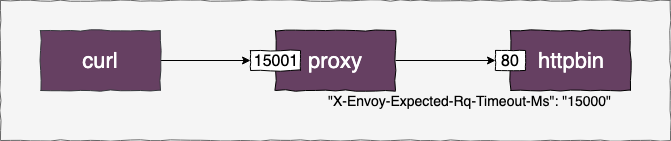
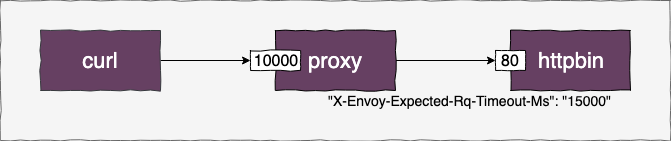
update diagram, README and envoy to latest version

diff --git a/README.md b/README.md
@@ -16,6 +16,20 @@ docker-compose up -d
 
 ### Get Request Headers through Envoy
 
+Without going through Envoy proxy (.i.e. `docker-compose exec curl curl httpbin:80/headers`), the response is:
+
+```
+{
+  "headers": {
+    "Accept": "*/*",
+    "Host": "httpbin",
+    "User-Agent": "curl/7.59.0"
+  }
+}
+```
+
+To make request through Envoy proxy:
+
 ```
 docker-compose exec curl curl proxy:10000/headers
 ```
@@ -33,6 +47,8 @@ This will ask `httpbin` (through Envoy proxy) to return `curl` request headers. 
   }
 }
 ```
+
+`X-Envoy-Expected-Rq-Timeout-Ms` header is injected by Envoy proxy before forwarding request to `httpbin`
 
 ### Access Envoy Admin API
 
